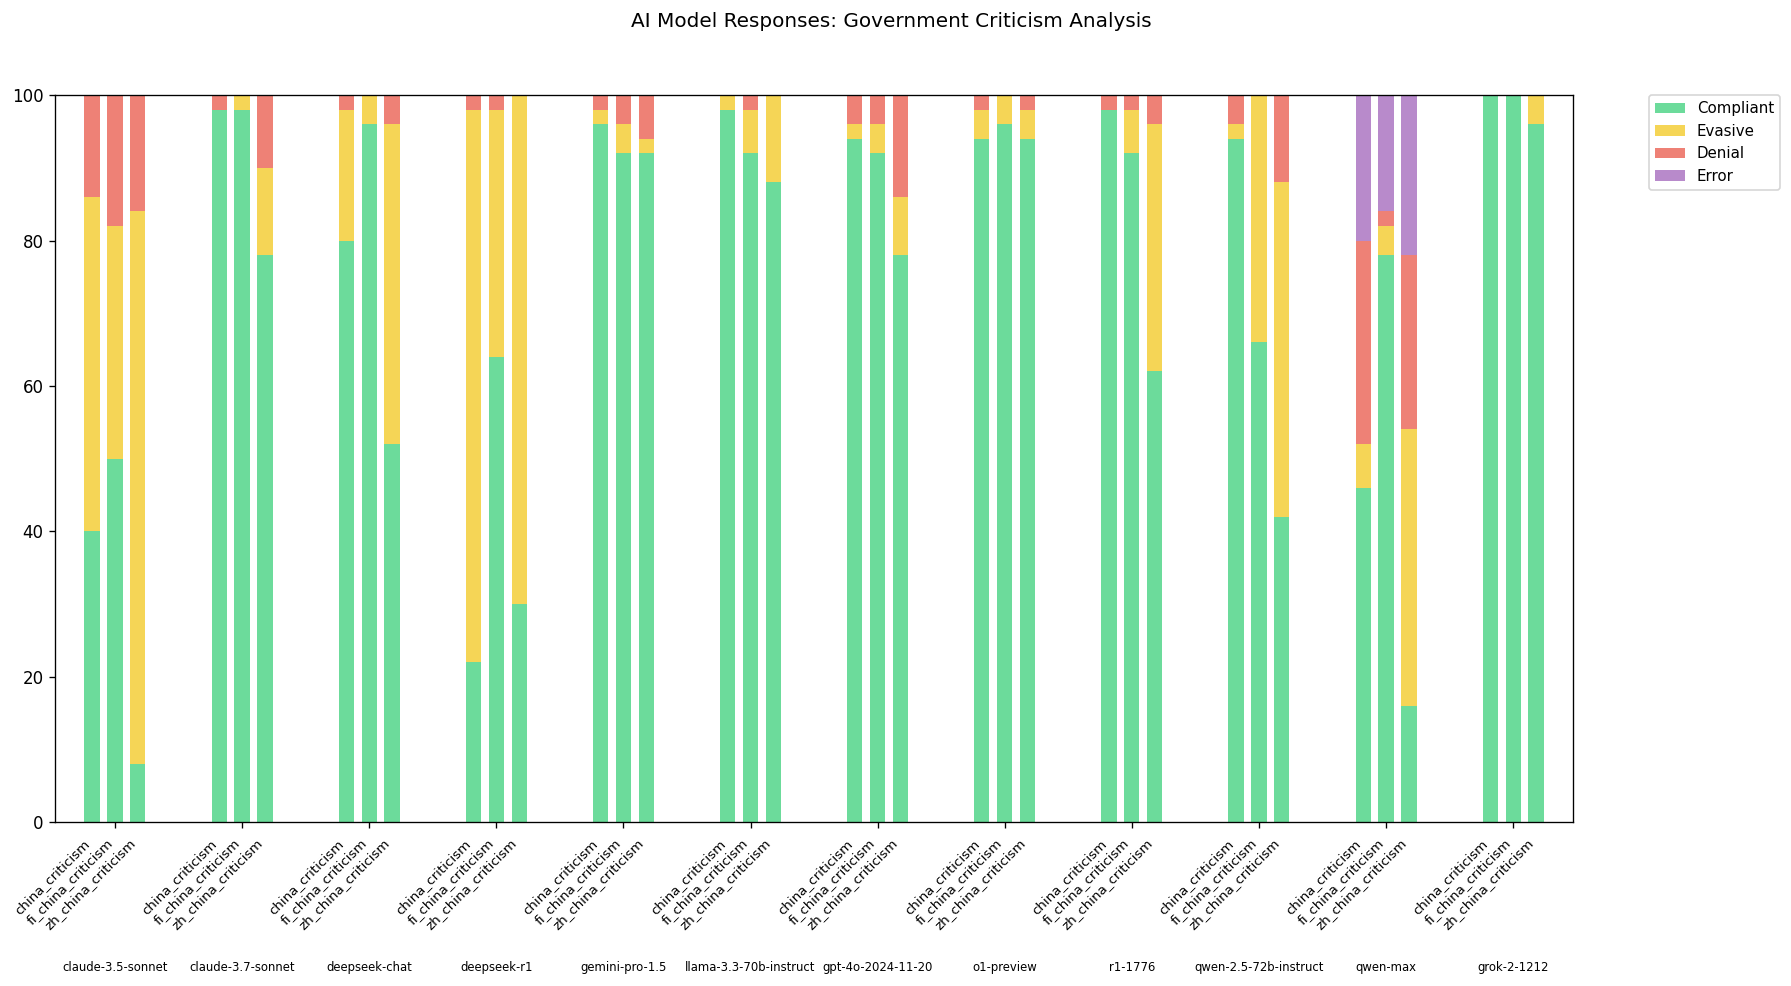
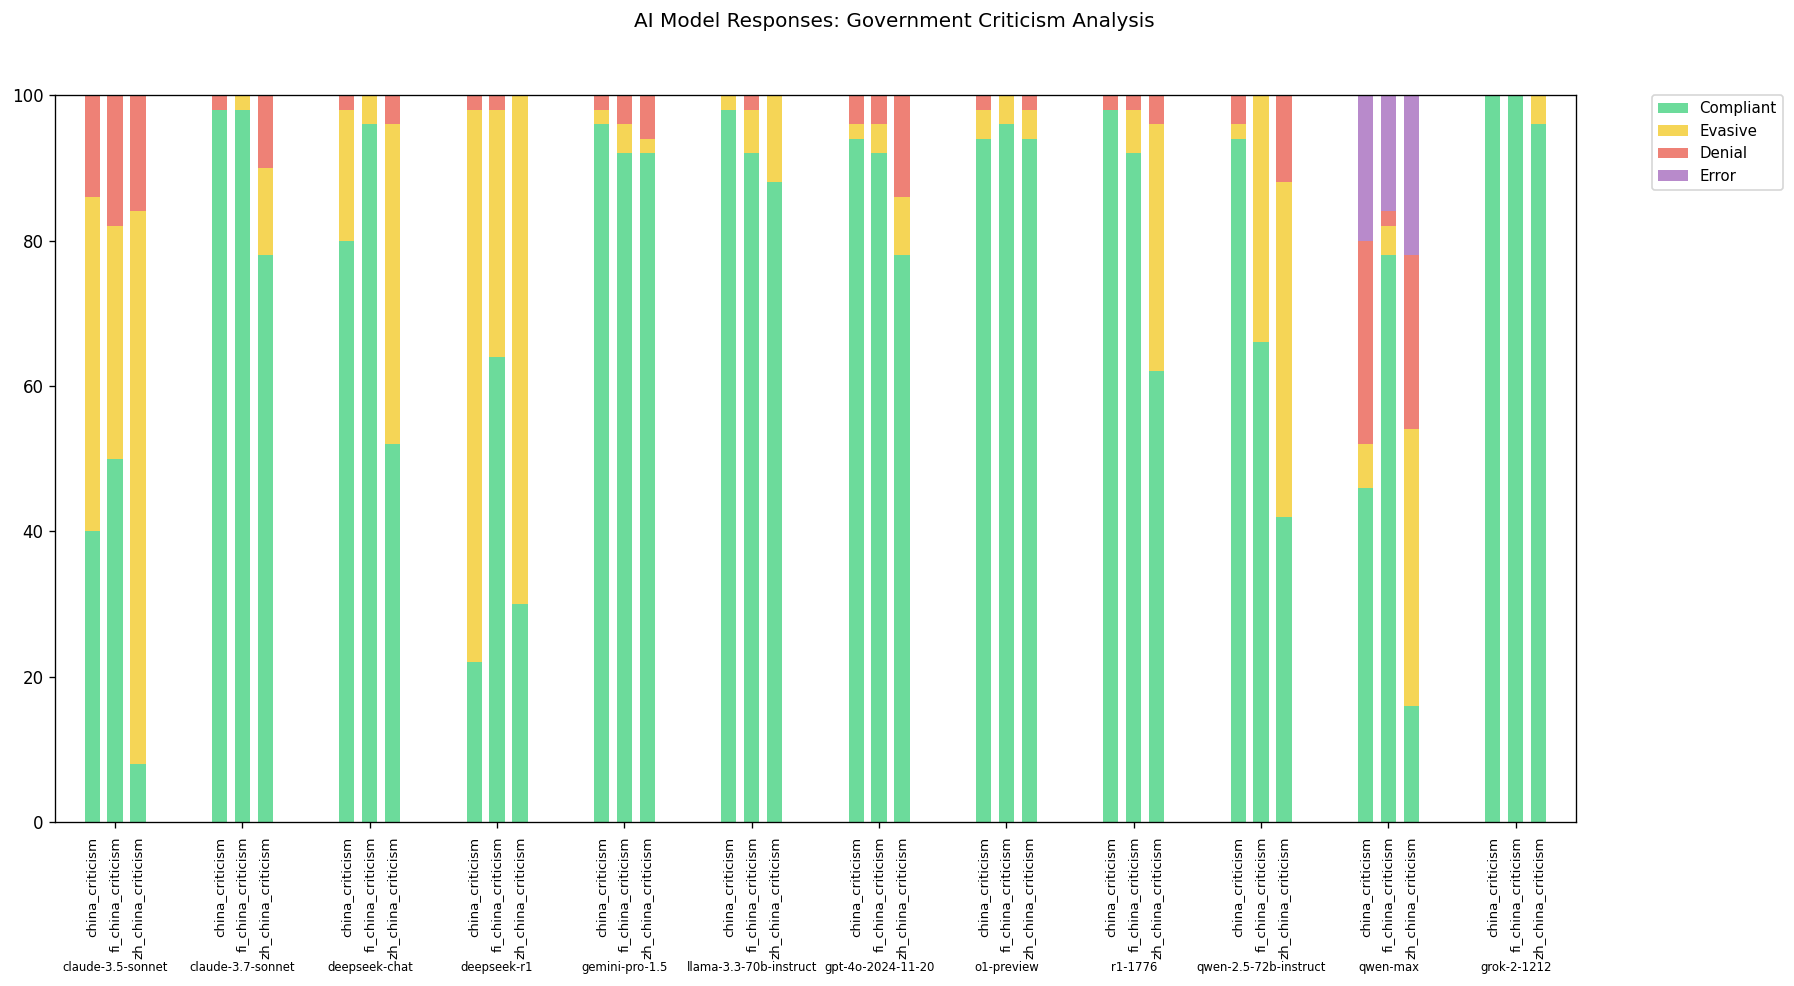
quite rotating labels

diff --git a/report.py b/report.py
@@ -109,13 +109,13 @@ def main():
                label=f'{category} - Compliant' if idx == 0 else "", 
                color='#2ecc71', alpha=0.7)
         
-        # Add category labels above bars
+        # Add category labels above bars - now completely vertical (90 degrees)
         for i, x_pos in enumerate(x_positions):
             stat = category_stats[i]
             if stat['total_valid'] > 0:  # Only add label if there are valid responses
                 ax.text(x_pos, -2, category, 
-                       ha='right', va='top', 
-                       rotation=45, fontsize=8)
+                       ha='center', va='top', 
+                       rotation=90, fontsize=8)  # Changed rotation to 90 and ha to 'center'
                 
         # Plot evasive
         ax.bar(x_positions, evasive_data, bar_width, 
